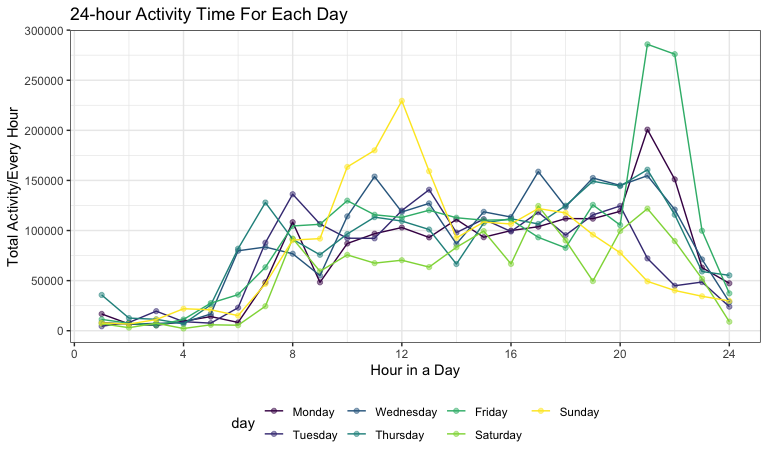
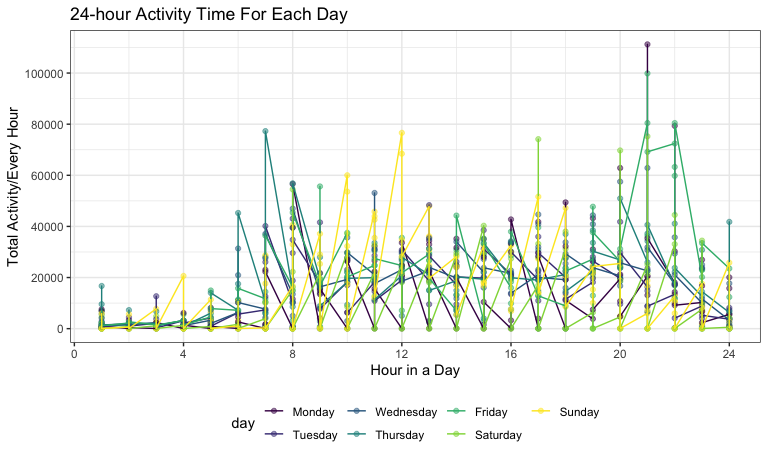
adjust for plot for probelm 3 (question 3)

diff --git a/p8105-hw3_rw2708.md b/p8105-hw3_rw2708.md
@@ -407,58 +407,60 @@ weekday or a weekend when the accelerometer data was collected.
 
 ``` r
 # create a table showing a total activity variable for each day
-analysis_activity = P3_data %>% 
-  group_by(week,day_id) %>% 
-  summarise(total_activity = sum(activity_counts))
+  analysis_activity = P3_data %>% 
+  group_by(week,day) %>% 
+  mutate(total_activity = sum(activity_counts)) %>% 
+  select(-minute_daily,-activity_counts) %>% 
+  distinct()
+
 
  knitr::kable(analysis_activity,digits = 2)
 ```
 
-| week | day\_id | total\_activity |
-| ---: | ------: | --------------: |
-|    1 |       1 |       480542.62 |
-|    1 |       2 |        78828.07 |
-|    1 |       3 |       376254.00 |
-|    1 |       4 |       631105.00 |
-|    1 |       5 |       355923.64 |
-|    1 |       6 |       307094.24 |
-|    1 |       7 |       340115.01 |
-|    2 |       8 |       568839.00 |
-|    2 |       9 |       295431.00 |
-|    2 |      10 |       607175.00 |
-|    2 |      11 |       422018.00 |
-|    2 |      12 |       474048.00 |
-|    2 |      13 |       423245.00 |
-|    2 |      14 |       440962.00 |
-|    3 |      15 |       467420.00 |
-|    3 |      16 |       685910.00 |
-|    3 |      17 |       382928.00 |
-|    3 |      18 |       467052.00 |
-|    3 |      19 |       371230.00 |
-|    3 |      20 |       381507.00 |
-|    3 |      21 |       468869.00 |
-|    4 |      22 |       154049.00 |
-|    4 |      23 |       409450.00 |
-|    4 |      24 |         1440.00 |
-|    4 |      25 |       260617.00 |
-|    4 |      26 |       340291.00 |
-|    4 |      27 |       319568.00 |
-|    4 |      28 |       434460.00 |
-|    5 |      29 |       620860.00 |
-|    5 |      30 |       389080.00 |
-|    5 |      31 |         1440.00 |
-|    5 |      32 |       138421.00 |
-|    5 |      33 |       549658.00 |
-|    5 |      34 |       367824.00 |
-|    5 |      35 |       445366.00 |
+| week | day\_id | day       | weekday\_weekend | total\_activity |
+| ---: | ------: | :-------- | :--------------- | --------------: |
+|    1 |       1 | Friday    | weekday          |       480542.62 |
+|    1 |       2 | Monday    | weekday          |        78828.07 |
+|    1 |       3 | Saturday  | weekend          |       376254.00 |
+|    1 |       4 | Sunday    | weekend          |       631105.00 |
+|    1 |       5 | Thursday  | weekday          |       355923.64 |
+|    1 |       6 | Tuesday   | weekday          |       307094.24 |
+|    1 |       7 | Wednesday | weekday          |       340115.01 |
+|    2 |       8 | Friday    | weekday          |       568839.00 |
+|    2 |       9 | Monday    | weekday          |       295431.00 |
+|    2 |      10 | Saturday  | weekend          |       607175.00 |
+|    2 |      11 | Sunday    | weekend          |       422018.00 |
+|    2 |      12 | Thursday  | weekday          |       474048.00 |
+|    2 |      13 | Tuesday   | weekday          |       423245.00 |
+|    2 |      14 | Wednesday | weekday          |       440962.00 |
+|    3 |      15 | Friday    | weekday          |       467420.00 |
+|    3 |      16 | Monday    | weekday          |       685910.00 |
+|    3 |      17 | Saturday  | weekend          |       382928.00 |
+|    3 |      18 | Sunday    | weekend          |       467052.00 |
+|    3 |      19 | Thursday  | weekday          |       371230.00 |
+|    3 |      20 | Tuesday   | weekday          |       381507.00 |
+|    3 |      21 | Wednesday | weekday          |       468869.00 |
+|    4 |      22 | Friday    | weekday          |       154049.00 |
+|    4 |      23 | Monday    | weekday          |       409450.00 |
+|    4 |      24 | Saturday  | weekend          |         1440.00 |
+|    4 |      25 | Sunday    | weekend          |       260617.00 |
+|    4 |      26 | Thursday  | weekday          |       340291.00 |
+|    4 |      27 | Tuesday   | weekday          |       319568.00 |
+|    4 |      28 | Wednesday | weekday          |       434460.00 |
+|    5 |      29 | Friday    | weekday          |       620860.00 |
+|    5 |      30 | Monday    | weekday          |       389080.00 |
+|    5 |      31 | Saturday  | weekend          |         1440.00 |
+|    5 |      32 | Sunday    | weekend          |       138421.00 |
+|    5 |      33 | Thursday  | weekday          |       549658.00 |
+|    5 |      34 | Tuesday   | weekday          |       367824.00 |
+|    5 |      35 | Wednesday | weekday          |       445366.00 |
 
 ``` r
 #exploring the trend
-trend_activity = analysis_activity %>% 
-  mutate(day = day_id) %>% 
-  ggplot(aes(x = day, y = total_activity)) +
-  geom_point(aes(color = day), alpha = 0.5) +
-  geom_line(aes(color = day)) +
+trend_activity = analysis_activity %>%  
+  ggplot(aes(x = day_id, y = total_activity)) +
+  geom_point(aes(color = day_id), alpha = 0.5) +
+  geom_line(aes(color = day_id)) +
   scale_y_continuous(
     # alteration for y-axis labels
     breaks = c(0, 200000, 400000, 600000),
@@ -480,12 +482,11 @@ day_week = P3_data  %>%
   mutate(minute_daily = as.numeric(minute_daily)) %>% 
   #converting day to a factor with different levels (might be good visually for plotting)
   mutate(day = forcats::fct_relevel(day, c("Monday","Tuesday","Wednesday","Thursday","Friday","Saturday","Sunday"))) %>% 
-  arrange(day) %>%
   #converting minute to hour
-  group_by(day) %>% 
+  group_by(week, day,day_id) %>% 
   mutate(hour_daily = ceiling(minute_daily/60)) %>% 
   # calculate the total activity for each hour in each day
-  group_by(day, hour_daily) %>% 
+  group_by(week, day, hour_daily,day_id) %>% 
   summarize(hour_activity = sum(activity_counts)) %>% 
   #Make a single-panel plot that shows the 24-hour activity time courses for each day
   ggplot(aes(x = hour_daily, y = hour_activity)) +
@@ -500,11 +501,11 @@ day_week = P3_data  %>%
     # alteration for x-axis labels 
     breaks = c(0, 4, 8, 12, 16, 20, 24),
     labels = c("0", "4", "8", "12", "16", "20", "24")) +
-   scale_y_continuous(
-    # alteration for y-axis labels
-    breaks = c(0, 50000, 100000, 150000, 200000, 250000, 300000),
-    labels = c("0", "50000", "100000", "150000", "200000","250000", "300000")
-  ) 
+    scale_y_continuous(
+    # make the y-axis labels a bit prettier
+    breaks = c(0, 20000, 40000, 60000, 80000, 100000, 120000),
+    labels = c("0", "20000", "40000", "60000", "80000", "100000", "120000")
+  )
 
 day_week
 ```
